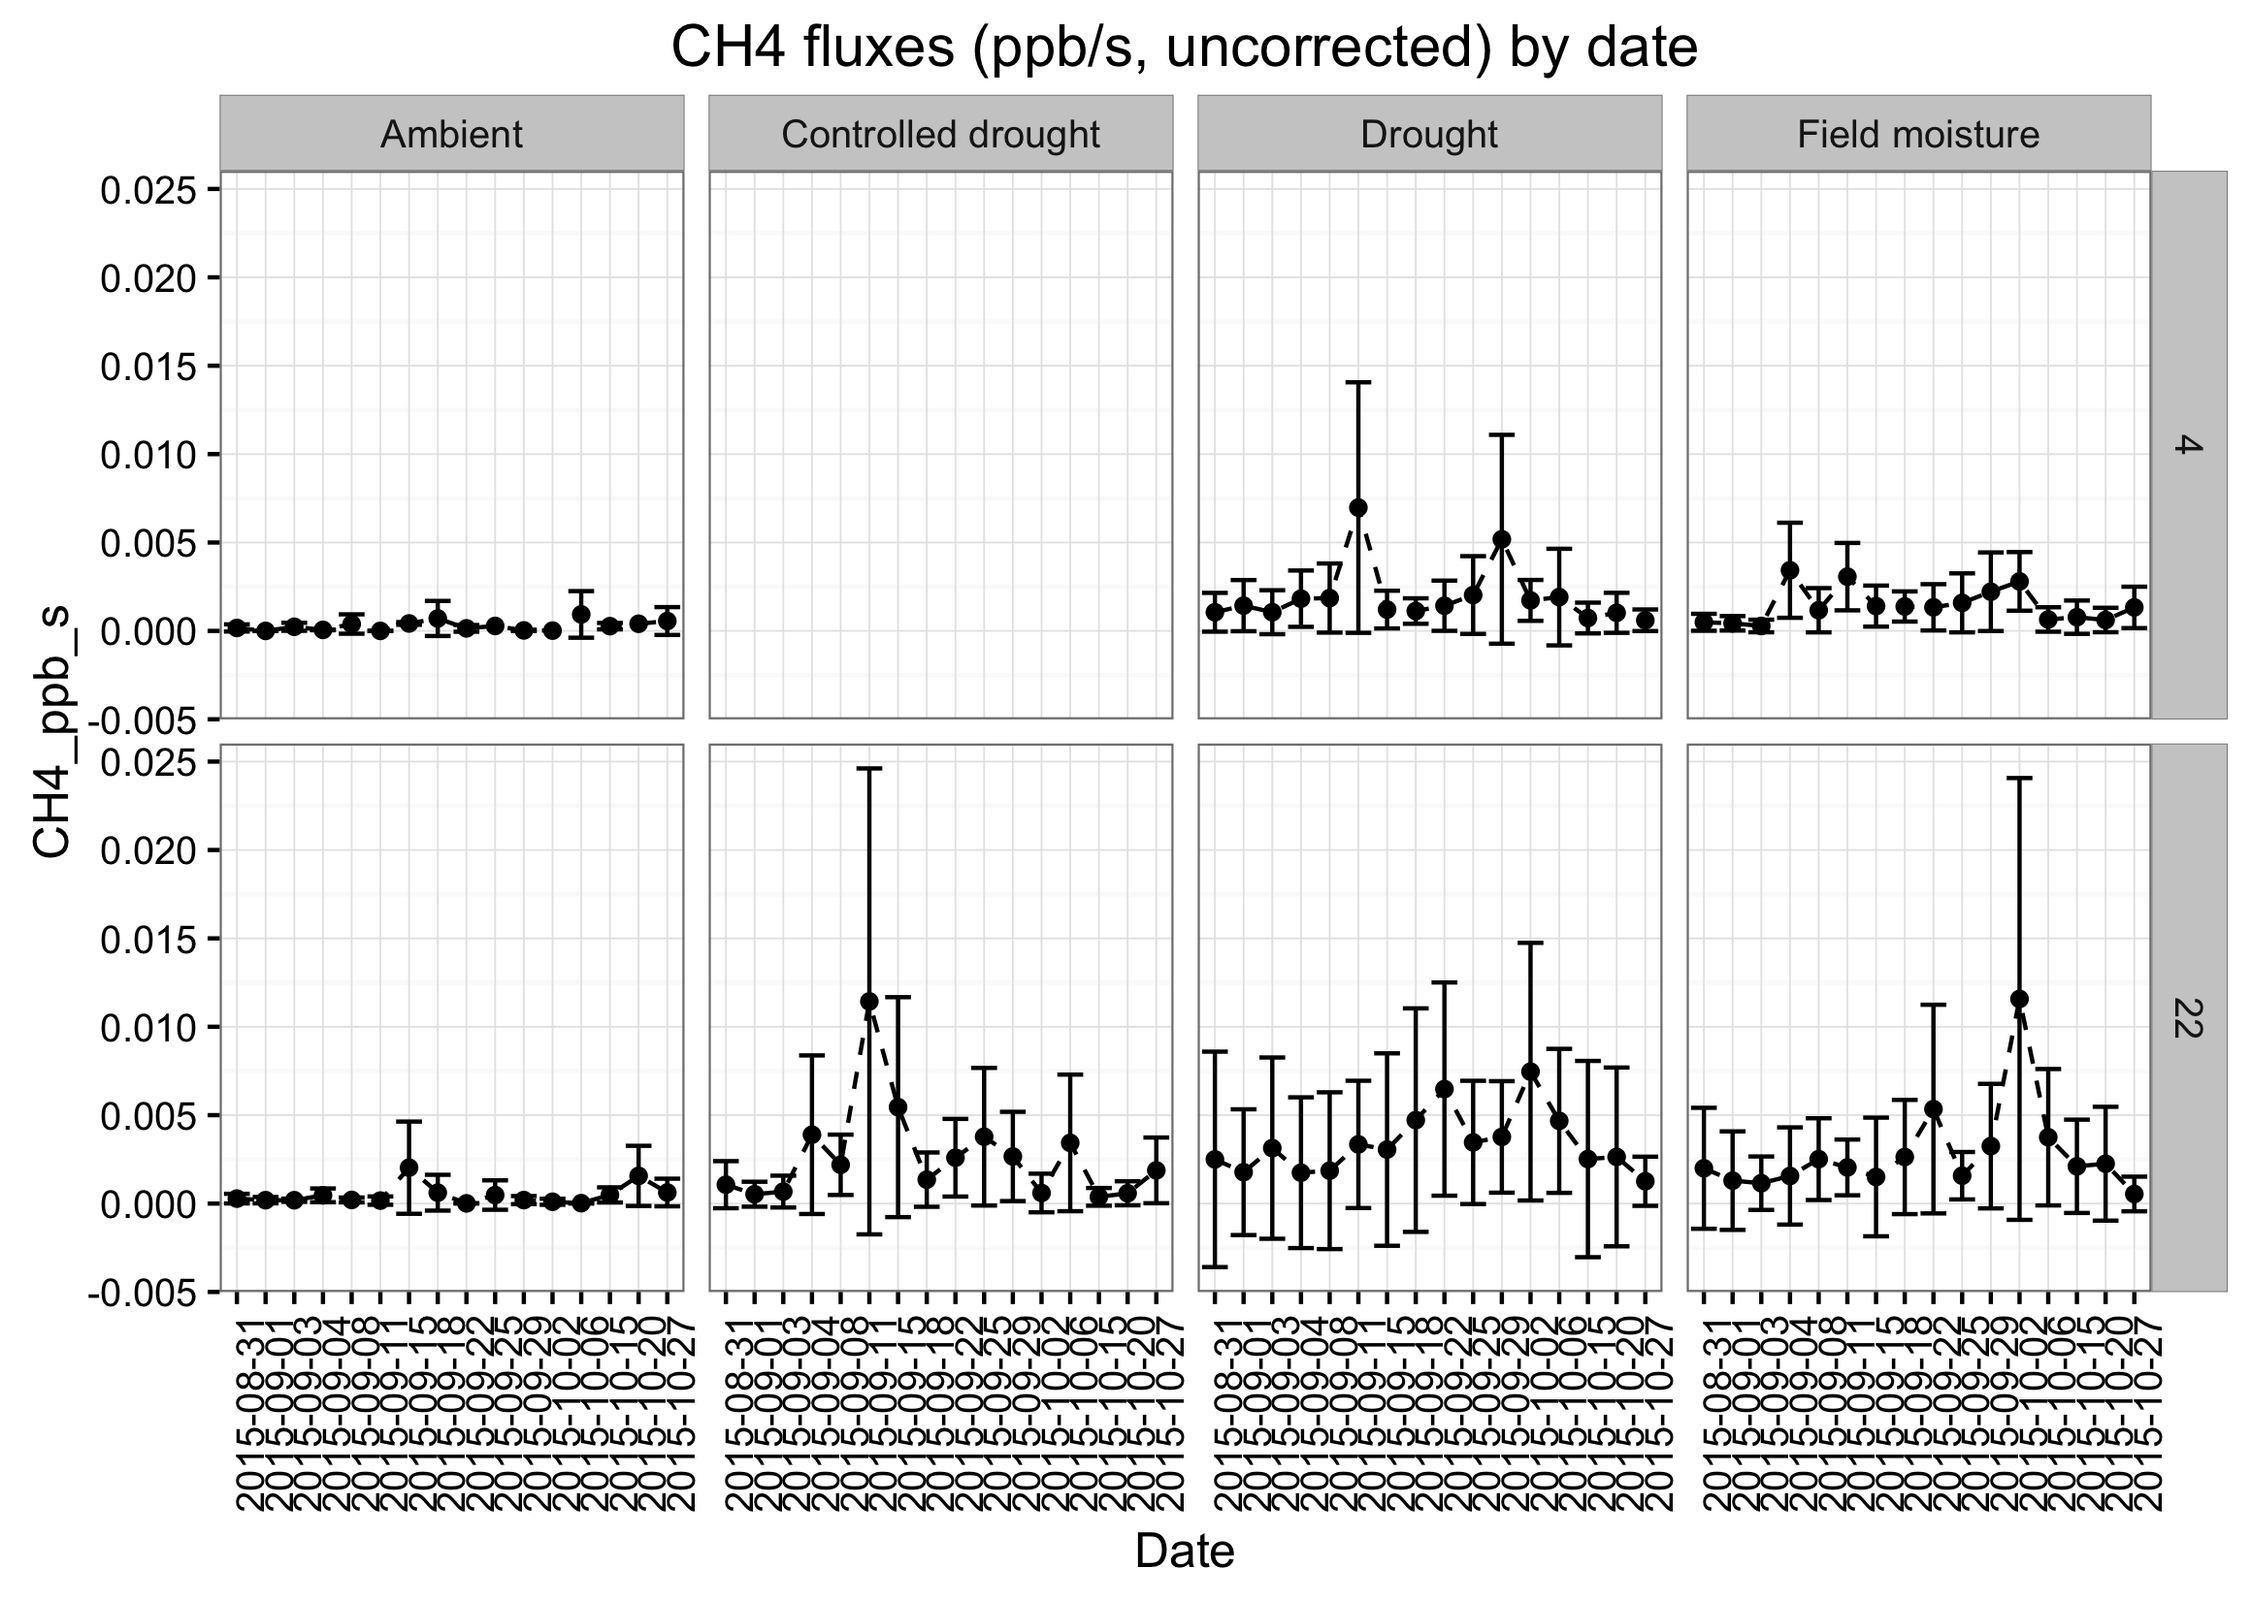
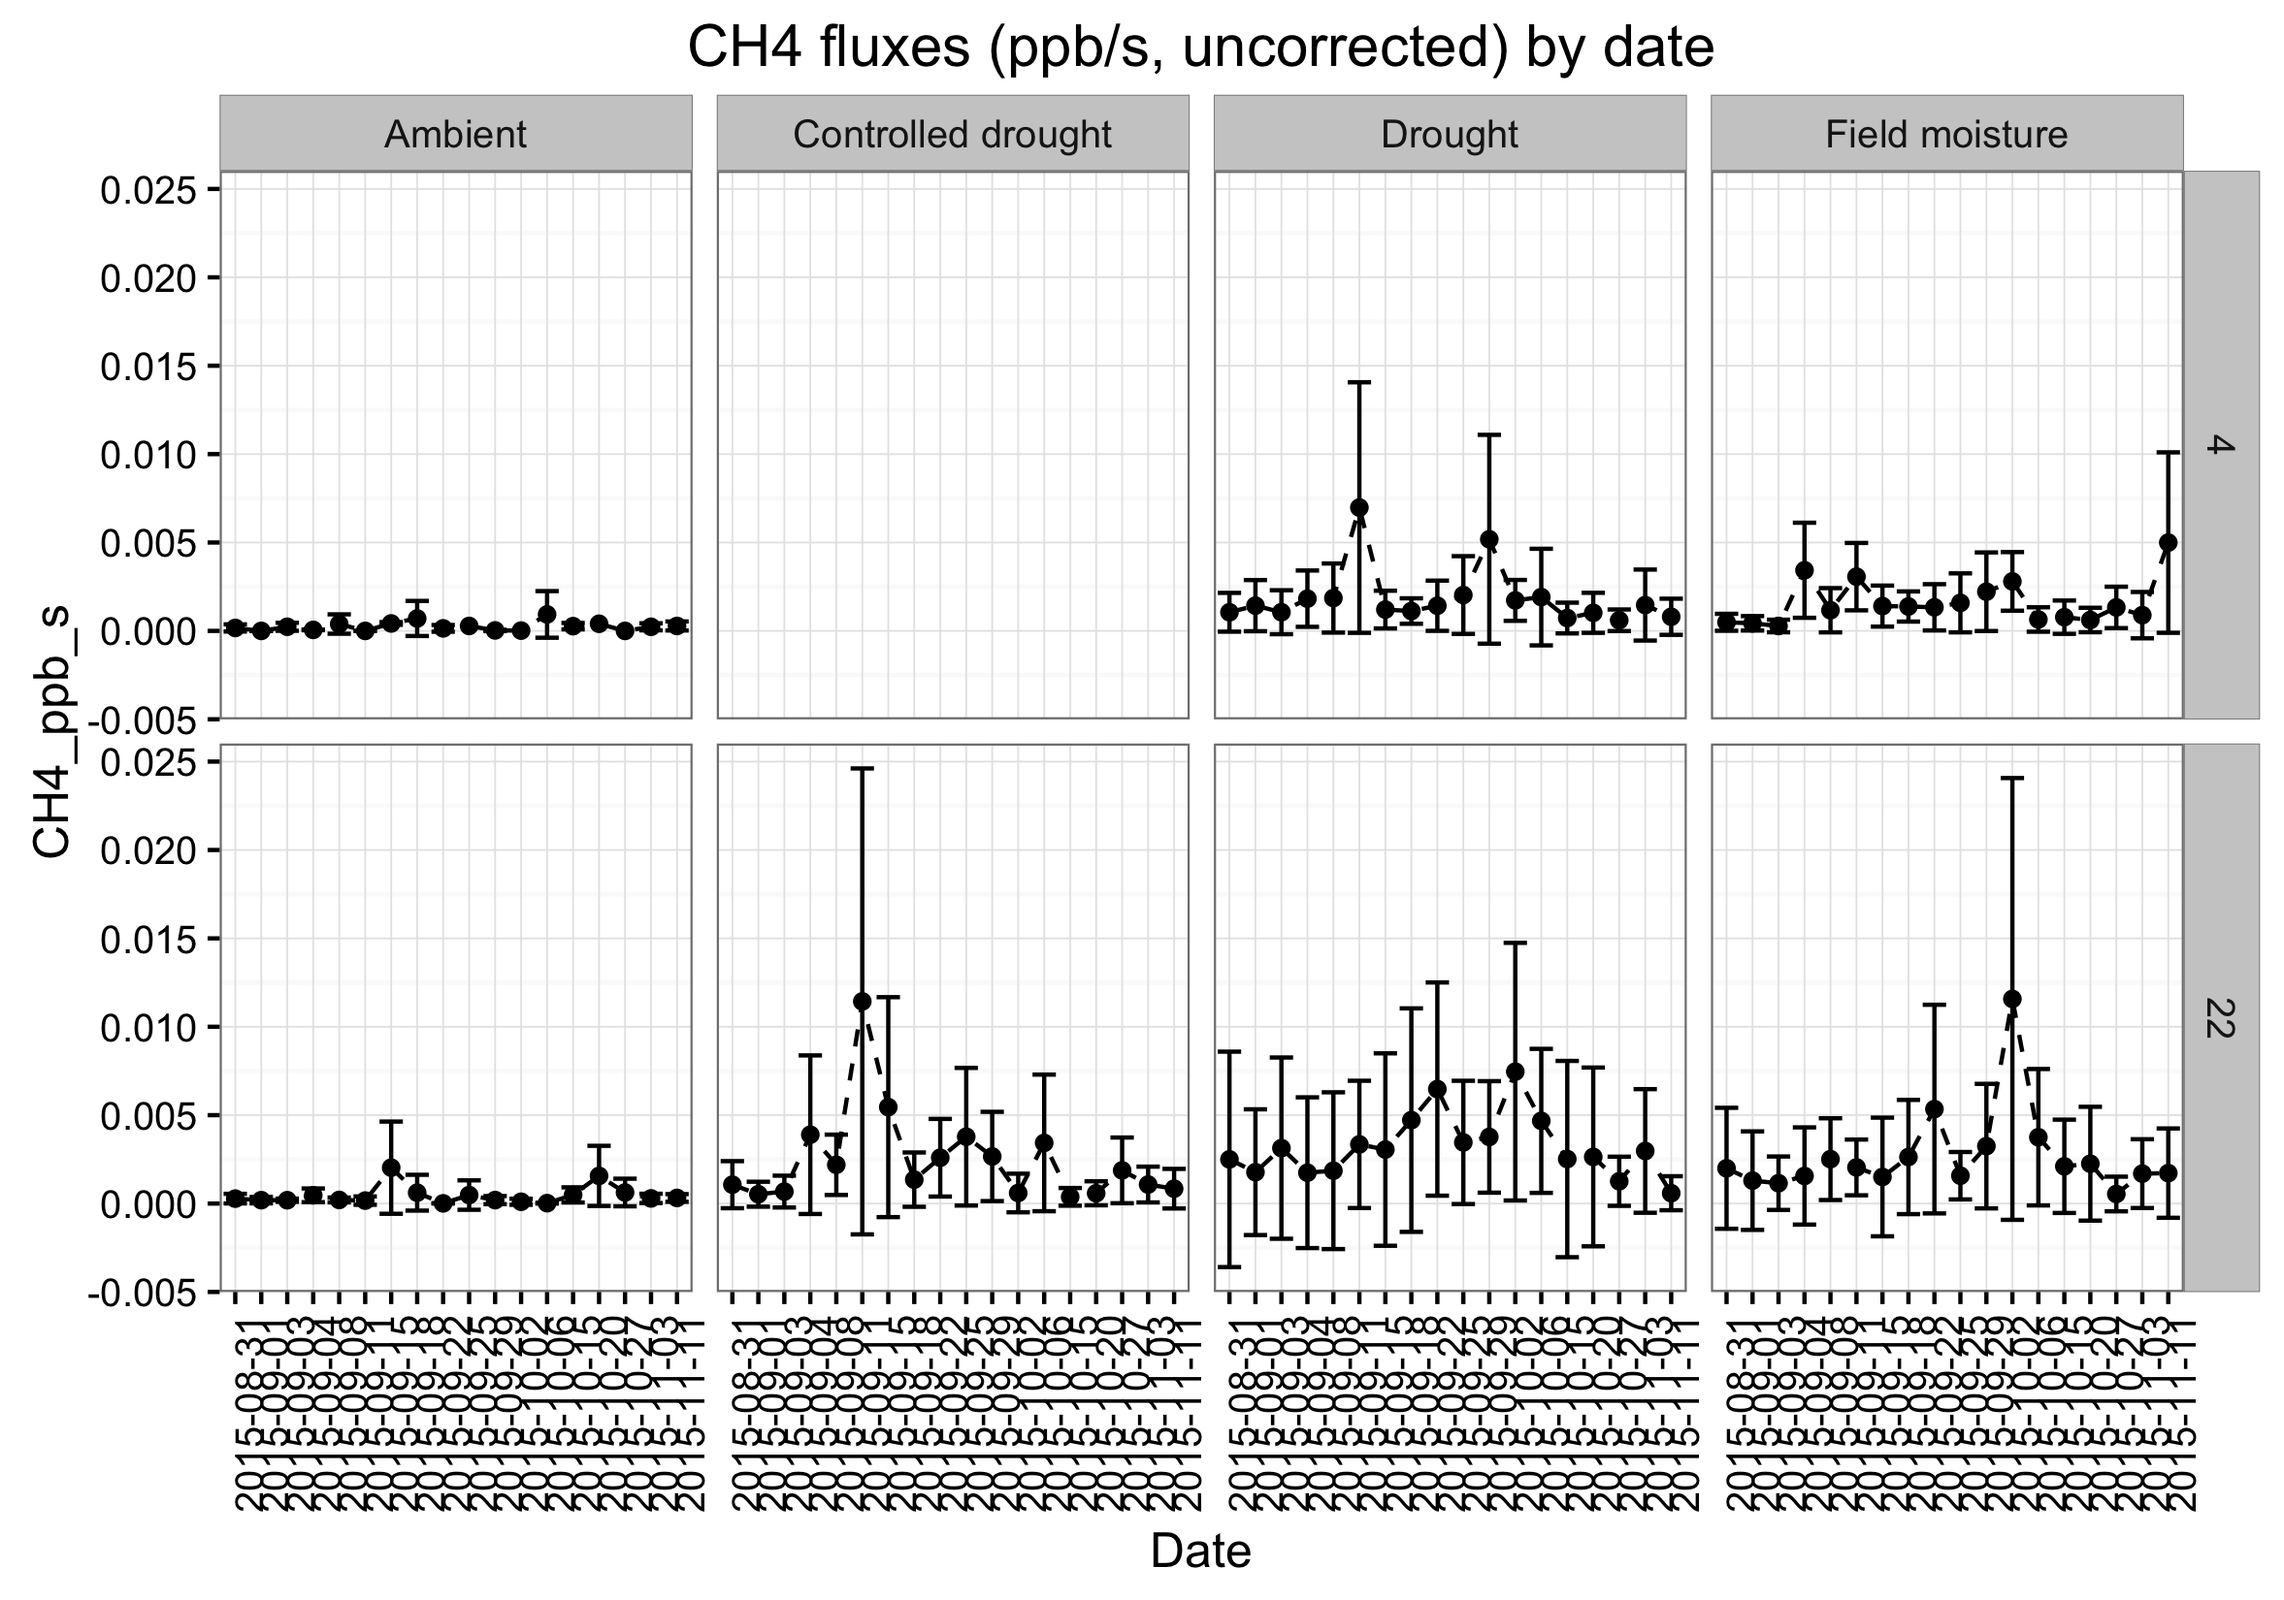
Removed data per Peyton notes
and generated new diagnostics

diff --git a/README.md b/README.md
@@ -8,9 +8,9 @@ This work is funded by DOE's [Terrestrial Ecosystem Science Program](http://tes.
 
 ## Current diagnostics
 
-Latest data: 2015-10-27 (incubation day 58)
+Latest data: 2015-11-11 (incubation day 73)
 
-Script run: 2015-11-03 19:58:02
+Script run: 2015-11-14 08:52:23
 
 ### Missing/problematic data
 
